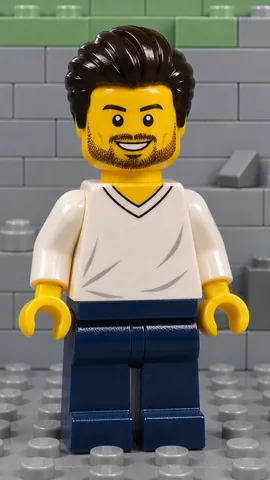
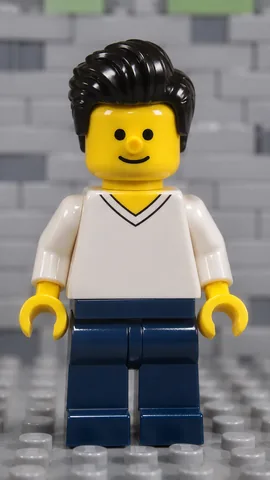
fix: give the LEGO style the classic brick-stud nose
The generated minifigures kept a human nose, which broke the illusion.
The prompt now pins the printed minifigure face (dot eyes, curved mouth
line) and a single yellow cylindrical brick-stud nose, with an explicit
ban on human nose shape, nostrils and skin shading.

diff --git a/app/src/main/java/com/photobooth/kiosk/data/AiStyle.kt b/app/src/main/java/com/photobooth/kiosk/data/AiStyle.kt
@@ -292,10 +292,12 @@ object AiStyles {
         AiStyle(
             id = "lego",
             labelRes = R.string.ai_style_lego,
-            prompt = "Rebuild the person in this photo as a LEGO minifigure scene, with glossy " +
-                "ABS plastic, the classic yellow head, dot eyes, C-shaped hands and visible " +
-                "studs. Preserve the person's identity, hairstyle colour, pose, framing and " +
-                "clothing colours. Family friendly, no text, no logos, no watermark.",
+            prompt = "Rebuild the person in this photo as a photographed LEGO minifigure set, with " +
+                "glossy ABS plastic, the classic yellow cylindrical head, dot eyes, a curved mouth " +
+                "line and a single yellow brick-stud cylinder for the nose instead of a human nose, " +
+                "C-shaped hands, moulded plastic hair and visible studs. Preserve the person's " +
+                "identity, hairstyle colour, pose, framing and clothing colours. Family friendly, " +
+                "no text, no logos, no watermark.",
         ),
     )
 
